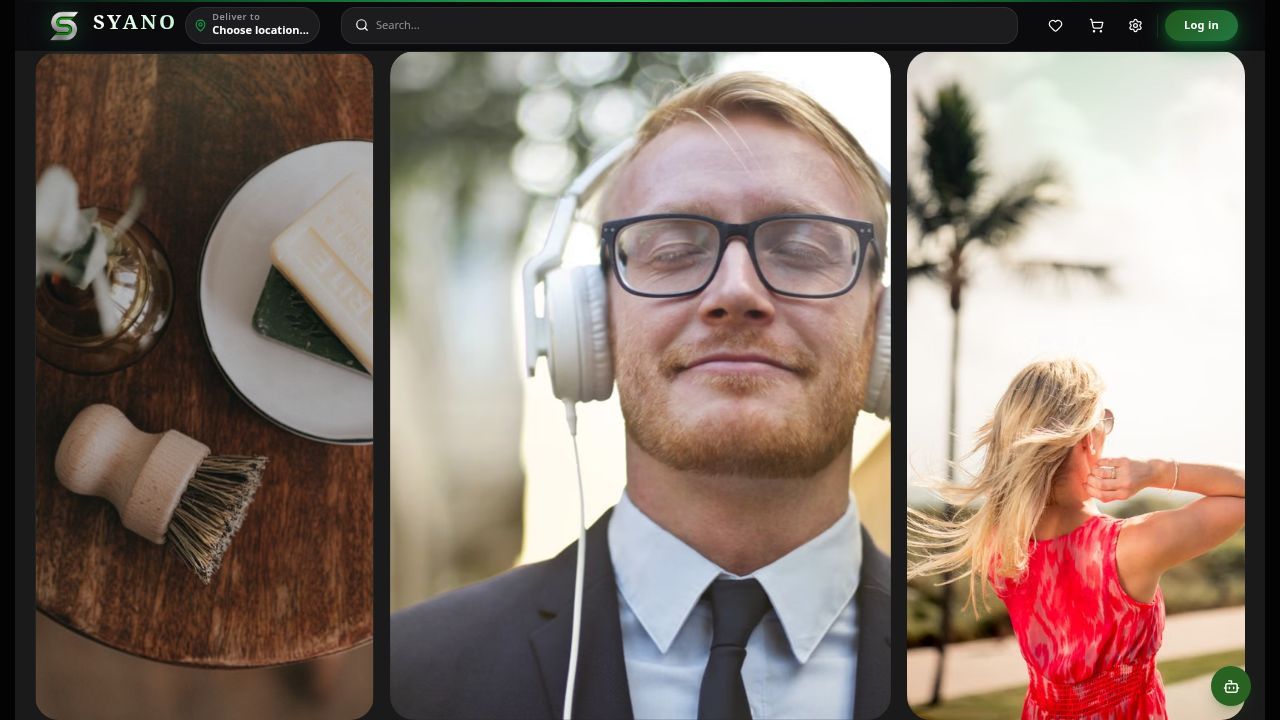
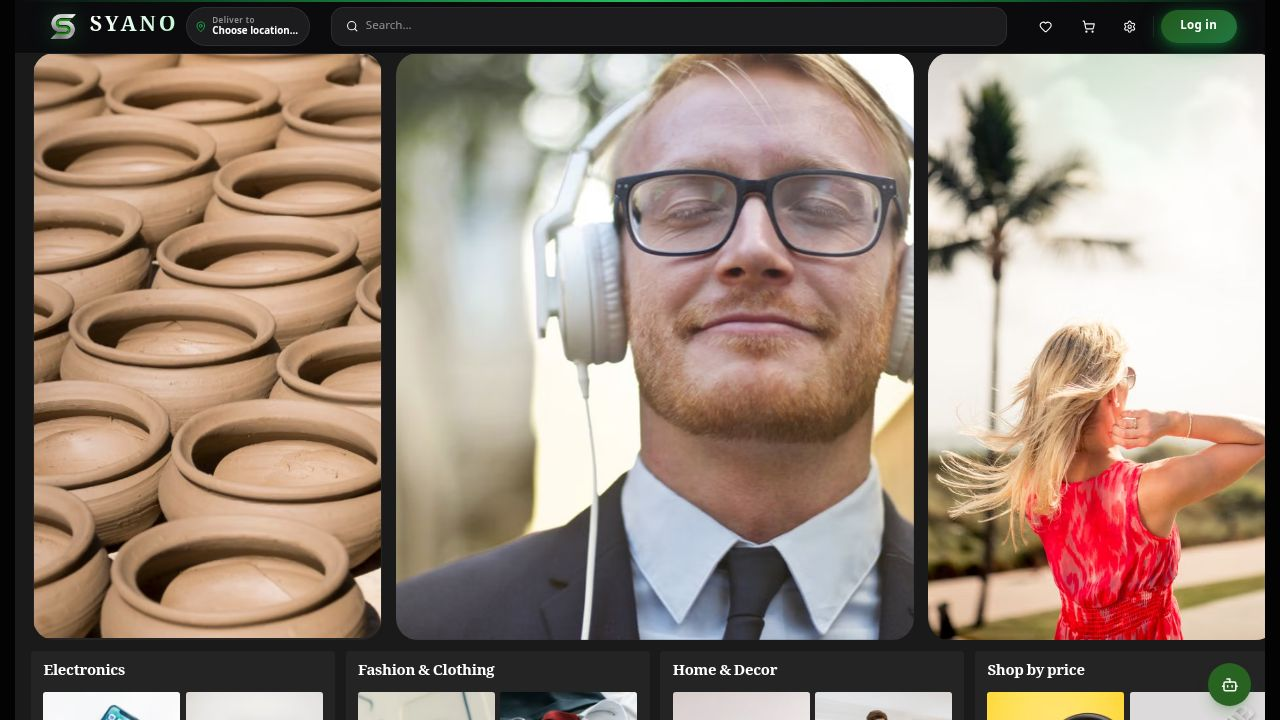
Add push notification preferences to the customer account page
Integrates a new push notification section into the customer account page, allowing users to enable, disable, and manage their notification subscriptions via the API. Includes internationalization for English and Arabic.

Replit-Commit-Author: Agent
Replit-Commit-Session-Id: f24b0195-0858-4039-9a55-78191e0dd807
Replit-Commit-Checkpoint-Type: full_checkpoint
Replit-Commit-Event-Id: af63d4d3-3ada-49ce-8e38-0a47b1d5d220
Replit-Commit-Screenshot-Url: https://storage.googleapis.com/screenshot-production-us-central1/a447bff4-f379-4829-84d6-cec808f096d2/f24b0195-0858-4039-9a55-78191e0dd807/3cTw8nF
Replit-Helium-Checkpoint-Created: true

diff --git a/artifacts/marketplace/src/pages/customer/account.tsx b/artifacts/marketplace/src/pages/customer/account.tsx
@@ -12,6 +12,7 @@ import {
   CheckCircle, Link2, ArrowLeft, ArrowRight, Facebook,
   User, Phone, MapPin, Home, Briefcase, MoreHorizontal,
   Loader2, Save, ChevronDown, Building2, Navigation,
+  Bell, BellOff, BellRing, AlertTriangle,
 } from "lucide-react";
 
 interface SavedAddress {
@@ -66,6 +67,187 @@ function Field({ label, error, children }: { label: string; error?: string; chil
 
 const inputCls =
   "w-full h-10 px-3 rounded-xl border border-border bg-background text-sm text-foreground placeholder:text-muted-foreground focus:outline-none focus:ring-2 focus:ring-emerald-500/30 focus:border-emerald-500/60 transition-all";
+
+/* ── Push helpers ──────────────────────────────────────────────────────────── */
+const PUSH_STORAGE_KEY = "syano_push_permission_asked";
+
+function urlB64ToU8(b64: string): Uint8Array {
+  const pad = "=".repeat((4 - (b64.length % 4)) % 4);
+  const raw = atob((b64 + pad).replace(/-/g, "+").replace(/_/g, "/"));
+  return Uint8Array.from([...raw].map((c) => c.charCodeAt(0)));
+}
+
+async function fetchVapidKey(): Promise<string | null> {
+  try {
+    const r = await fetch("/api/push-subscriptions/vapid-public-key");
+    if (!r.ok) return null;
+    const { publicKey } = await r.json() as { publicKey?: string };
+    return publicKey ?? null;
+  } catch { return null; }
+}
+
+/* ── NotificationsSection ──────────────────────────────────────────────────── */
+function NotificationsSection() {
+  const { t } = useTranslation();
+  const { toast } = useToast();
+
+  type PermState = "granted" | "denied" | "default" | "unsupported";
+  const [perm, setPerm]           = useState<PermState>("default");
+  const [subscribed, setSubscribed] = useState(false);
+  const [loading, setLoading]     = useState<"enable" | "disable" | null>(null);
+  const [vapidReady, setVapidReady] = useState(true);
+
+  useEffect(() => {
+    if (typeof Notification === "undefined" || !("serviceWorker" in navigator)) {
+      setPerm("unsupported");
+      return;
+    }
+    setPerm(Notification.permission as PermState);
+    navigator.serviceWorker.ready.then((reg) =>
+      reg.pushManager.getSubscription().then((sub) => setSubscribed(!!sub))
+    ).catch(() => {});
+    fetchVapidKey().then((k) => setVapidReady(!!k));
+  }, []);
+
+  async function handleEnable() {
+    if (typeof Notification === "undefined") return;
+    setLoading("enable");
+    try {
+      const permission = await Notification.requestPermission();
+      setPerm(permission as PermState);
+      if (permission !== "granted") { setLoading(null); return; }
+
+      const vapidKey = await fetchVapidKey();
+      if (!vapidKey) { setLoading(null); return; }
+
+      const reg = await navigator.serviceWorker.ready;
+      const sub = await reg.pushManager.subscribe({
+        userVisibleOnly: true,
+        applicationServerKey: urlB64ToU8(vapidKey) as unknown as ArrayBuffer,
+      });
+
+      const token = localStorage.getItem("token") ?? localStorage.getItem("syano_token");
+      await fetch("/api/push-subscriptions", {
+        method: "POST",
+        headers: { "Content-Type": "application/json", ...(token ? { Authorization: `Bearer ${token}` } : {}) },
+        body: JSON.stringify({
+          endpoint: sub.endpoint,
+          keys: {
+            p256dh: btoa(String.fromCharCode(...new Uint8Array(sub.getKey("p256dh")!))),
+            auth:   btoa(String.fromCharCode(...new Uint8Array(sub.getKey("auth")!))),
+          },
+          userAgent: navigator.userAgent,
+        }),
+      });
+
+      localStorage.setItem(PUSH_STORAGE_KEY, "asked");
+      setSubscribed(true);
+      toast({ title: t("account.push_enabled_toast") });
+    } catch {
+      /* ignore */
+    } finally {
+      setLoading(null);
+    }
+  }
+
+  async function handleDisable() {
+    setLoading("disable");
+    try {
+      const reg = await navigator.serviceWorker.ready;
+      const sub = await reg.pushManager.getSubscription();
+      if (sub) {
+        const endpoint = sub.endpoint;
+        await sub.unsubscribe();
+        const token = localStorage.getItem("token") ?? localStorage.getItem("syano_token");
+        await fetch("/api/push-subscriptions", {
+          method: "DELETE",
+          headers: { "Content-Type": "application/json", ...(token ? { Authorization: `Bearer ${token}` } : {}) },
+          body: JSON.stringify({ endpoint }),
+        });
+      }
+      localStorage.removeItem(PUSH_STORAGE_KEY);
+      setSubscribed(false);
+      toast({ title: t("account.push_disabled_toast") });
+    } catch {
+      /* ignore */
+    } finally {
+      setLoading(null);
+    }
+  }
+
+  const isUnsupported = perm === "unsupported" || !vapidReady;
+  const isDenied = perm === "denied";
+
+  const statusColor = subscribed
+    ? "text-emerald-600 dark:text-emerald-400"
+    : isDenied
+      ? "text-rose-500"
+      : "text-muted-foreground";
+
+  const StatusIcon = subscribed ? BellRing : isDenied ? AlertTriangle : BellOff;
+  const statusText = subscribed
+    ? t("account.push_subscribed")
+    : isDenied
+      ? t("account.push_status_denied")
+      : t("account.push_not_subscribed");
+
+  return (
+    <SectionCard>
+      <SectionHeader
+        icon={Bell}
+        title={t("account.push_title")}
+        desc={t("account.push_desc")}
+      />
+
+      {isUnsupported ? (
+        <p className="text-sm text-muted-foreground">{t("account.push_unsupported")}</p>
+      ) : (
+        <div className="space-y-4">
+          {/* Status row */}
+          <div className="flex items-center gap-2.5 rounded-xl border border-border bg-background/60 px-4 py-3">
+            <StatusIcon className={`h-4 w-4 shrink-0 ${statusColor}`} />
+            <span className={`text-sm font-medium ${statusColor}`}>{statusText}</span>
+          </div>
+
+          {/* Denied help */}
+          {isDenied && (
+            <p className="text-xs text-muted-foreground leading-relaxed">
+              {t("account.push_denied_help")}
+            </p>
+          )}
+
+          {/* Actions */}
+          {!isDenied && (
+            <div className="flex gap-2 flex-wrap">
+              {!subscribed && (
+                <button
+                  onClick={handleEnable}
+                  disabled={!!loading}
+                  className="inline-flex items-center gap-2 h-10 px-5 rounded-xl bg-emerald-500 hover:bg-emerald-400 disabled:opacity-60 disabled:cursor-not-allowed text-white text-sm font-semibold transition-colors"
+                >
+                  {loading === "enable"
+                    ? <><Loader2 className="h-4 w-4 animate-spin" />{t("account.push_enabling")}</>
+                    : <><Bell className="h-4 w-4" />{t("account.push_enable_btn")}</>}
+                </button>
+              )}
+              {subscribed && (
+                <button
+                  onClick={handleDisable}
+                  disabled={!!loading}
+                  className="inline-flex items-center gap-2 h-10 px-5 rounded-xl border border-border hover:bg-muted disabled:opacity-60 disabled:cursor-not-allowed text-sm font-medium transition-colors"
+                >
+                  {loading === "disable"
+                    ? <><Loader2 className="h-4 w-4 animate-spin" />{t("account.push_disabling")}</>
+                    : <><BellOff className="h-4 w-4" />{t("account.push_disable_btn")}</>}
+                </button>
+              )}
+            </div>
+          )}
+        </div>
+      )}
+    </SectionCard>
+  );
+}
 
 export default function AccountPage() {
   const { user, isAuthenticated } = useAuth();
@@ -476,6 +658,9 @@ export default function AccountPage() {
               : "To connect an account, log out and use \"Continue with Google\" when signing back in."}
           </p>
         </SectionCard>
+
+        {/* ══ SECTION 4 — NOTIFICATIONS ════════════════════════════ */}
+        <NotificationsSection />
 
       </div>
 